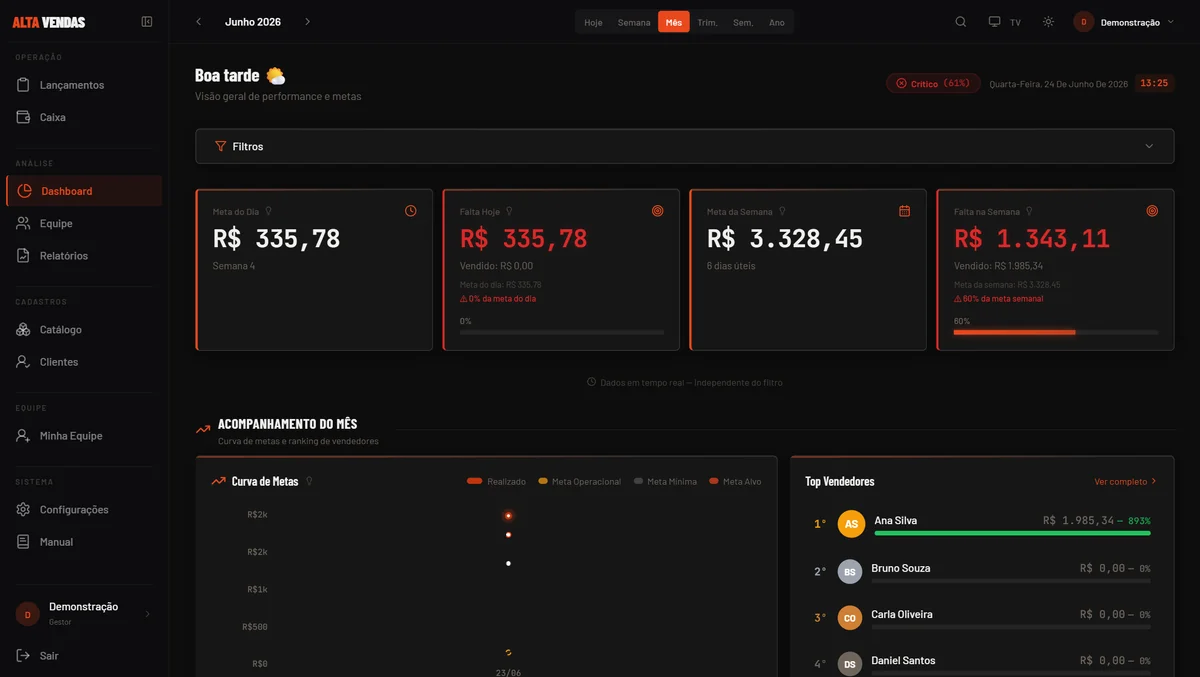
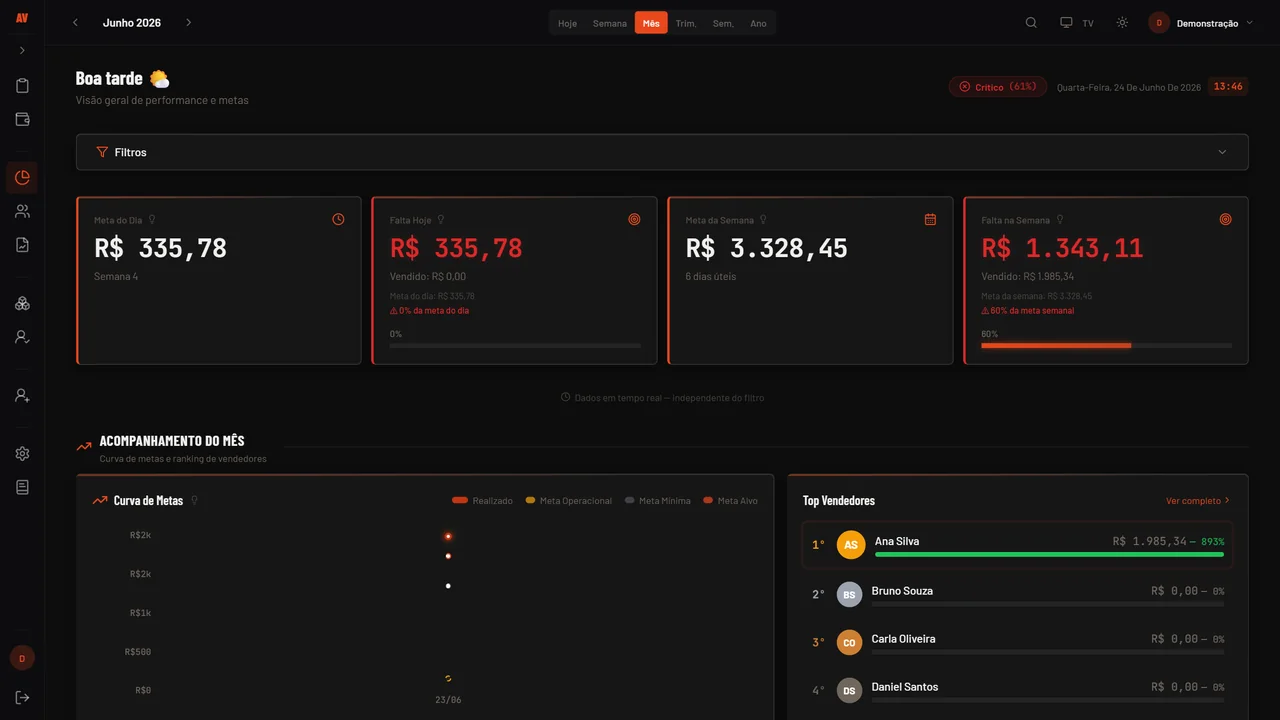
Carrossel na estetica do site: foto limpa + nav quadrada fora da foto

diff --git a/index.html b/index.html
@@ -305,20 +305,25 @@ section, header.capa { position: relative; }
 .sys-flash { position: absolute; inset: 0; background: #4ade80; opacity: 0; z-index: 6; pointer-events: none; }
 /* Vídeo de produto (Remotion) — UI recriada e renderizada como MP4: roda liso */
 .sys-video { display: block; width: 100%; aspect-ratio: 1280 / 760; margin: 10px 0 4px; border-radius: 6px; border: 1px solid rgba(255,255,255,.1); background: #0c0c0e; box-shadow: 0 24px 60px -24px rgba(0,0,0,.7); object-fit: cover; }
-/* ---------- Carrossel de telas reais (passos do método) ---------- */
+/* ---------- Carrossel de telas reais (passos do método) — estética do site ---------- */
 .cx { position: relative; width: 100%; }
-.cx-vp { overflow: hidden; border-radius: 6px; background: #0c0c0e; border: 1px solid rgba(255,255,255,.08); }
-.cx-track { display: flex; transition: transform .55s cubic-bezier(.62,.01,.06,1); will-change: transform; }
-.cx-slide { flex: 0 0 100%; margin: 0; position: relative; }
-.cx-slide img { display: block; width: 100%; aspect-ratio: 16 / 9; object-fit: contain; background: #0c0c0e; }
-.cx-cap { position: absolute; left: 0; right: 0; bottom: 0; padding: 26px 14px 11px; font-family: var(--cond); font-weight: 700; font-size: 14px; line-height: 1.18; color: #fff; text-transform: uppercase; letter-spacing: .03em; background: linear-gradient(transparent, rgba(7,7,9,.92)); }
+.cx-vp { overflow: hidden; box-shadow: 0 30px 70px -34px rgba(0,0,0,.42); }
+.spread-2 .cx-vp { box-shadow: 0 30px 70px -32px rgba(0,0,0,.65); outline: 1px solid rgba(255,255,255,.09); outline-offset: -1px; }
+.cx-track { display: flex; transition: transform .5s cubic-bezier(.62,.01,.06,1); will-change: transform; }
+.cx-slide { flex: 0 0 100%; margin: 0; }
+.cx-slide img { display: block; width: 100%; aspect-ratio: var(--ar, 16/9); object-fit: cover; background: #0c0c0e; }
+/* navegação FORA da foto — mesmo padrão quadrado do .cases-nav */
+.cx-bar { display: flex; align-items: center; gap: 16px; margin-top: 14px; }
+.cx-cap { flex: 1; min-width: 0; font-family: var(--cond); font-weight: 700; font-size: 15px; line-height: 1.16; text-transform: uppercase; letter-spacing: .02em; color: var(--tinta); }
 .cx-cap b { color: var(--fogo); }
-.cx-nav { position: absolute; top: 44%; transform: translateY(-50%); width: 33px; height: 33px; border-radius: 50%; border: 1px solid rgba(255,255,255,.3); background: rgba(11,11,13,.52); color: #fff; font-size: 19px; line-height: 1; cursor: pointer; display: grid; place-items: center; transition: background .2s, border-color .2s; z-index: 3; padding: 0; }
-.cx-nav:hover { background: var(--fogo); border-color: var(--fogo); }
-.cx-prev { left: 9px; } .cx-next { right: 9px; }
-.cx-dots { display: flex; gap: 6px; justify-content: center; margin-top: 11px; }
-.cx-dot { width: 7px; height: 7px; border-radius: 99px; background: rgba(140,140,140,.42); border: none; cursor: pointer; padding: 0; transition: background .25s, width .25s; }
-.cx-dot.on { background: var(--fogo); width: 19px; }
+.cx-count { font-family: var(--cond); font-weight: 800; font-size: 16px; letter-spacing: .1em; font-variant-numeric: tabular-nums; white-space: nowrap; color: var(--tinta); }
+.cx-count b { color: var(--fogo); }
+.cx-nav { width: 44px; height: 44px; border: 1px solid var(--tinta); background: var(--papel); color: var(--tinta); display: flex; align-items: center; justify-content: center; font-size: 18px; line-height: 1; transition: all .25s; cursor: pointer; flex-shrink: 0; padding: 0; }
+.cx-nav:hover { background: var(--tinta); color: var(--papel); }
+/* no passo escuro (RAIO-X) inverte as cores */
+.spread-2 .cx-cap, .spread-2 .cx-count { color: rgba(255,255,255,.86); }
+.spread-2 .cx-nav { border-color: rgba(255,255,255,.5); background: transparent; color: var(--papel); }
+.spread-2 .cx-nav:hover { background: var(--papel); color: var(--tinta); }
 .mock-lanc .etapa { display: flex; align-items: center; gap: 10px; padding: 10px; border-radius: 6px; background: rgba(255,255,255,.05); margin-bottom: 8px; font-size: 12px; position: relative; }
 .mock-lanc .etapa .icone { width: 28px; height: 28px; border-radius: 6px; background: rgba(255,90,31,.16); color: var(--fogo); display: flex; align-items: center; justify-content: center; font-family: var(--cond); font-weight: 800; font-size: 13px; flex-shrink: 0; }
 .mock-lanc .etapa small { display: block; color: rgba(255,255,255,.45); font-size: 10px; }
@@ -357,7 +362,7 @@ section, header.capa { position: relative; }
 .card-lampada .titulo-c { font-family: var(--cond); font-weight: 800; font-size: 19px; text-transform: uppercase; }
 .card-lampada p { font-size: 14.5px; line-height: 1.55; color: rgba(13,13,15,.66); }
 .card-lampada p b { color: var(--tinta); }
-.card-playbook { width: min(720px, 58vw); box-shadow: 0 50px 110px -34px rgba(0,0,0,.55); }
+.card-playbook { width: min(760px, 60vw); }
 .spread-fecho { font-size: 15px; font-weight: 600; }
 .spread-fecho i { color: var(--fogo); font-style: normal; }
 
@@ -922,19 +927,20 @@ section, header.capa { position: relative; }
         <div class="grade" aria-hidden="true"><i></i><i></i><i></i><i></i><i></i><i></i><i></i><i></i><i></i><i></i><i></i><i></i></div>
         <span class="numeral num" data-par="8">01</span>
         <div class="conteudo">
-          <div class="mock mock-lanc" data-par="-6">
-            <div class="mock-top"><span class="mock-logo">TELA REAL DO SISTEMA</span><span class="mock-live"><i></i>AO VIVO</span></div>
-            <div class="cx" data-cx aria-label="Como registrar um atendimento, passo a passo">
+          <div class="mock-lanc" data-par="-6">
+            <div class="cx" data-cx style="--ar: 1568/726;" aria-label="Como registrar um atendimento, passo a passo">
               <div class="cx-vp"><div class="cx-track">
-                <figure class="cx-slide"><img src="img/c1a.webp" alt="Tela do AltaVendas marcando se vendeu ou não" loading="lazy"><figcaption class="cx-cap"><b>1.</b> Vendeu ou não? Um toque.</figcaption></figure>
-                <figure class="cx-slide"><img src="img/c1b.webp" alt="Catálogo de produtos do AltaVendas" loading="lazy"><figcaption class="cx-cap"><b>2.</b> Escolha o produto — ou bipe o código.</figcaption></figure>
-                <figure class="cx-slide"><img src="img/c1c.webp" alt="Forma de pagamento e salvar a venda" loading="lazy"><figcaption class="cx-cap"><b>3.</b> Pix, dinheiro ou cartão — e salva.</figcaption></figure>
+                <figure class="cx-slide" data-cap="<b>1.</b> Vendeu ou não? Um toque."><img src="img/c1a.webp" alt="Tela do AltaVendas marcando se vendeu ou não" loading="lazy"></figure>
+                <figure class="cx-slide" data-cap="<b>2.</b> Escolha o produto — ou bipe o código."><img src="img/c1b.webp" alt="Catálogo de produtos do AltaVendas" loading="lazy"></figure>
+                <figure class="cx-slide" data-cap="<b>3.</b> Pix, dinheiro ou cartão — e salva."><img src="img/c1c.webp" alt="Forma de pagamento e salvar a venda" loading="lazy"></figure>
               </div></div>
-              <button class="cx-nav cx-prev" type="button" aria-label="Anterior">&#8249;</button>
-              <button class="cx-nav cx-next" type="button" aria-label="Próximo">&#8250;</button>
-              <div class="cx-dots"></div>
+              <div class="cx-bar">
+                <span class="cx-cap"></span>
+                <span class="cx-count"><b class="cx-idx">01</b> — <span class="cx-tot">03</span></span>
+                <button class="cx-nav cx-prev" type="button" aria-label="Anterior">&#8592;</button>
+                <button class="cx-nav cx-next" type="button" aria-label="Próximo">&#8594;</button>
+              </div>
             </div>
-            <div class="cron num">0:08<small>do atendimento ao registro salvo</small></div>
           </div>
           <div class="lado-b">
             <h3 class="spread-titulo" data-split>REGISTRE</h3>
@@ -948,17 +954,17 @@ section, header.capa { position: relative; }
         <span class="fantasma-txt" id="fantasma-txt">E SE VOCÊ VISSE?</span>
         <div class="conteudo">
           <div class="painel-grande" id="painel-grande">
-            <div class="mock">
-              <div class="mock-top"><span class="mock-logo" style="font-size:16px">ALTA<b>VENDAS</b> · PAINEL — TELA REAL</span><span class="mock-live"><i></i>AO VIVO</span></div>
-              <div class="cx" data-cx aria-label="O painel do AltaVendas por dentro">
-                <div class="cx-vp"><div class="cx-track">
-                  <figure class="cx-slide"><img src="img/c2a.webp" alt="Dashboard do AltaVendas com metas e ranking" loading="lazy"><figcaption class="cx-cap">O dia inteiro na sua frente — meta, ritmo e <b>quem está vendendo</b>.</figcaption></figure>
-                  <figure class="cx-slide"><img src="img/c2b.webp" alt="Curva de metas hora a hora" loading="lazy"><figcaption class="cx-cap">A <b>curva de metas</b>: onde a venda subiu e onde ela morreu.</figcaption></figure>
-                  <figure class="cx-slide"><img src="img/c2c.webp" alt="Ranking de vendedores ao vivo" loading="lazy"><figcaption class="cx-cap">O <b>ranking ao vivo</b> — quem precisa de um empurrão.</figcaption></figure>
-                </div></div>
-                <button class="cx-nav cx-prev" type="button" aria-label="Anterior">&#8249;</button>
-                <button class="cx-nav cx-next" type="button" aria-label="Próximo">&#8250;</button>
-                <div class="cx-dots"></div>
+            <div class="cx" data-cx aria-label="O painel do AltaVendas por dentro">
+              <div class="cx-vp"><div class="cx-track">
+                <figure class="cx-slide" data-cap="Tudo na sua frente — <b>meta do dia, ritmo e o que falta</b>."><img src="img/c2a.webp" alt="Dashboard do AltaVendas com metas e ranking" loading="lazy"></figure>
+                <figure class="cx-slide" data-cap="A curva de metas e o ranking — <b>quem puxou e onde a venda morreu</b>."><img src="img/c2b.webp" alt="Curva de metas e ranking de vendedores" loading="lazy"></figure>
+                <figure class="cx-slide" data-cap="O pulso ao vivo — o ritmo da loja <b>em tempo real</b>."><img src="img/c2c.webp" alt="Pulso ao vivo do AltaVendas" loading="lazy"></figure>
+              </div></div>
+              <div class="cx-bar">
+                <span class="cx-cap"></span>
+                <span class="cx-count"><b class="cx-idx">01</b> — <span class="cx-tot">03</span></span>
+                <button class="cx-nav cx-prev" type="button" aria-label="Anterior">&#8592;</button>
+                <button class="cx-nav cx-next" type="button" aria-label="Próximo">&#8594;</button>
               </div>
             </div>
           </div>
@@ -972,17 +978,19 @@ section, header.capa { position: relative; }
         <span class="numeral num">03</span>
         <div class="conteudo">
           <h3 class="spread-titulo" data-split>AJA COM O <span class="lar">PLAYBOOK</span></h3>
-          <div class="mock card-playbook">
-            <div class="mock-top"><span class="mock-logo">COMO USAR · <b>A ORDEM DO DIA</b></span><span class="mock-live"><i></i>AO VIVO</span></div>
+          <div class="card-playbook">
             <div class="cx" data-cx aria-label="O sistema explica cada número e manda a ação do dia">
               <div class="cx-vp"><div class="cx-track">
-                <figure class="cx-slide"><img src="img/c3a.webp" alt="Painel Como usar: Meta do Dia" loading="lazy"><figcaption class="cx-cap">Toda lâmpada explica o número <b>e manda a ação</b>.</figcaption></figure>
-                <figure class="cx-slide"><img src="img/c3b.webp" alt="Painel Como usar: Falta Hoje" loading="lazy"><figcaption class="cx-cap">Falta bater a meta? Ele diz <b>onde correr atrás</b>.</figcaption></figure>
-                <figure class="cx-slide"><img src="img/c3c.webp" alt="Painel Como usar: Meta da Semana" loading="lazy"><figcaption class="cx-cap">A semana planejada — <b>o dia forte cobre o fraco</b>.</figcaption></figure>
+                <figure class="cx-slide" data-cap="Toda lâmpada explica o número <b>e manda a ação</b>."><img src="img/c3a.webp" alt="Painel Como usar: Meta do Dia" loading="lazy"></figure>
+                <figure class="cx-slide" data-cap="Falta bater a meta? Ele diz <b>onde correr atrás</b>."><img src="img/c3b.webp" alt="Painel Como usar: Falta Hoje" loading="lazy"></figure>
+                <figure class="cx-slide" data-cap="A semana planejada — <b>o dia forte cobre o fraco</b>."><img src="img/c3c.webp" alt="Painel Como usar: Meta da Semana" loading="lazy"></figure>
               </div></div>
-              <button class="cx-nav cx-prev" type="button" aria-label="Anterior">&#8249;</button>
-              <button class="cx-nav cx-next" type="button" aria-label="Próximo">&#8250;</button>
-              <div class="cx-dots"></div>
+              <div class="cx-bar">
+                <span class="cx-cap"></span>
+                <span class="cx-count"><b class="cx-idx">01</b> — <span class="cx-tot">03</span></span>
+                <button class="cx-nav cx-prev" type="button" aria-label="Anterior">&#8592;</button>
+                <button class="cx-nav cx-next" type="button" aria-label="Próximo">&#8594;</button>
+              </div>
             </div>
           </div>
           <p class="spread-fecho">Você não recebe um número. <i>Recebe a ordem do dia.</i></p>
@@ -1574,24 +1582,19 @@ if (!reduz) {
 document.querySelectorAll('[data-cx]').forEach((cx) => {
   const track = cx.querySelector('.cx-track');
   const slides = [...cx.querySelectorAll('.cx-slide')];
-  const dotsBox = cx.querySelector('.cx-dots');
+  const capEl = cx.querySelector('.cx-cap');
+  const idxEl = cx.querySelector('.cx-idx');
+  const totEl = cx.querySelector('.cx-tot');
   const n = slides.length;
   if (!track || n === 0) return;
   let i = 0, timer = null, visible = false;
-
-  slides.forEach((_, k) => {
-    const d = document.createElement('button');
-    d.type = 'button'; d.className = 'cx-dot' + (k === 0 ? ' on' : '');
-    d.setAttribute('aria-label', 'Ir para a tela ' + (k + 1));
-    d.addEventListener('click', () => { go(k); restart(); });
-    dotsBox.appendChild(d);
-  });
-  const dots = [...dotsBox.children];
+  if (totEl) totEl.textContent = String(n).padStart(2, '0');
 
   function go(k) {
     i = (k + n) % n;
     track.style.transform = 'translateX(' + (-i * 100) + '%)';
-    dots.forEach((d, j) => d.classList.toggle('on', j === i));
+    if (capEl) capEl.innerHTML = slides[i].dataset.cap || '';
+    if (idxEl) idxEl.textContent = String(i + 1).padStart(2, '0');
   }
   const next = () => go(i + 1);
   const prev = () => go(i - 1);
@@ -1617,6 +1620,8 @@ document.querySelectorAll('[data-cx]').forEach((cx) => {
   new IntersectionObserver((es) => es.forEach((e) => {
     visible = e.isIntersecting; visible ? restart() : stop();
   }), { threshold: .25 }).observe(cx);
+
+  go(0); /* inicializa legenda + contagem */
 });
 
 /* ---------- 04 · RECURSOS (índice) ---------- */
